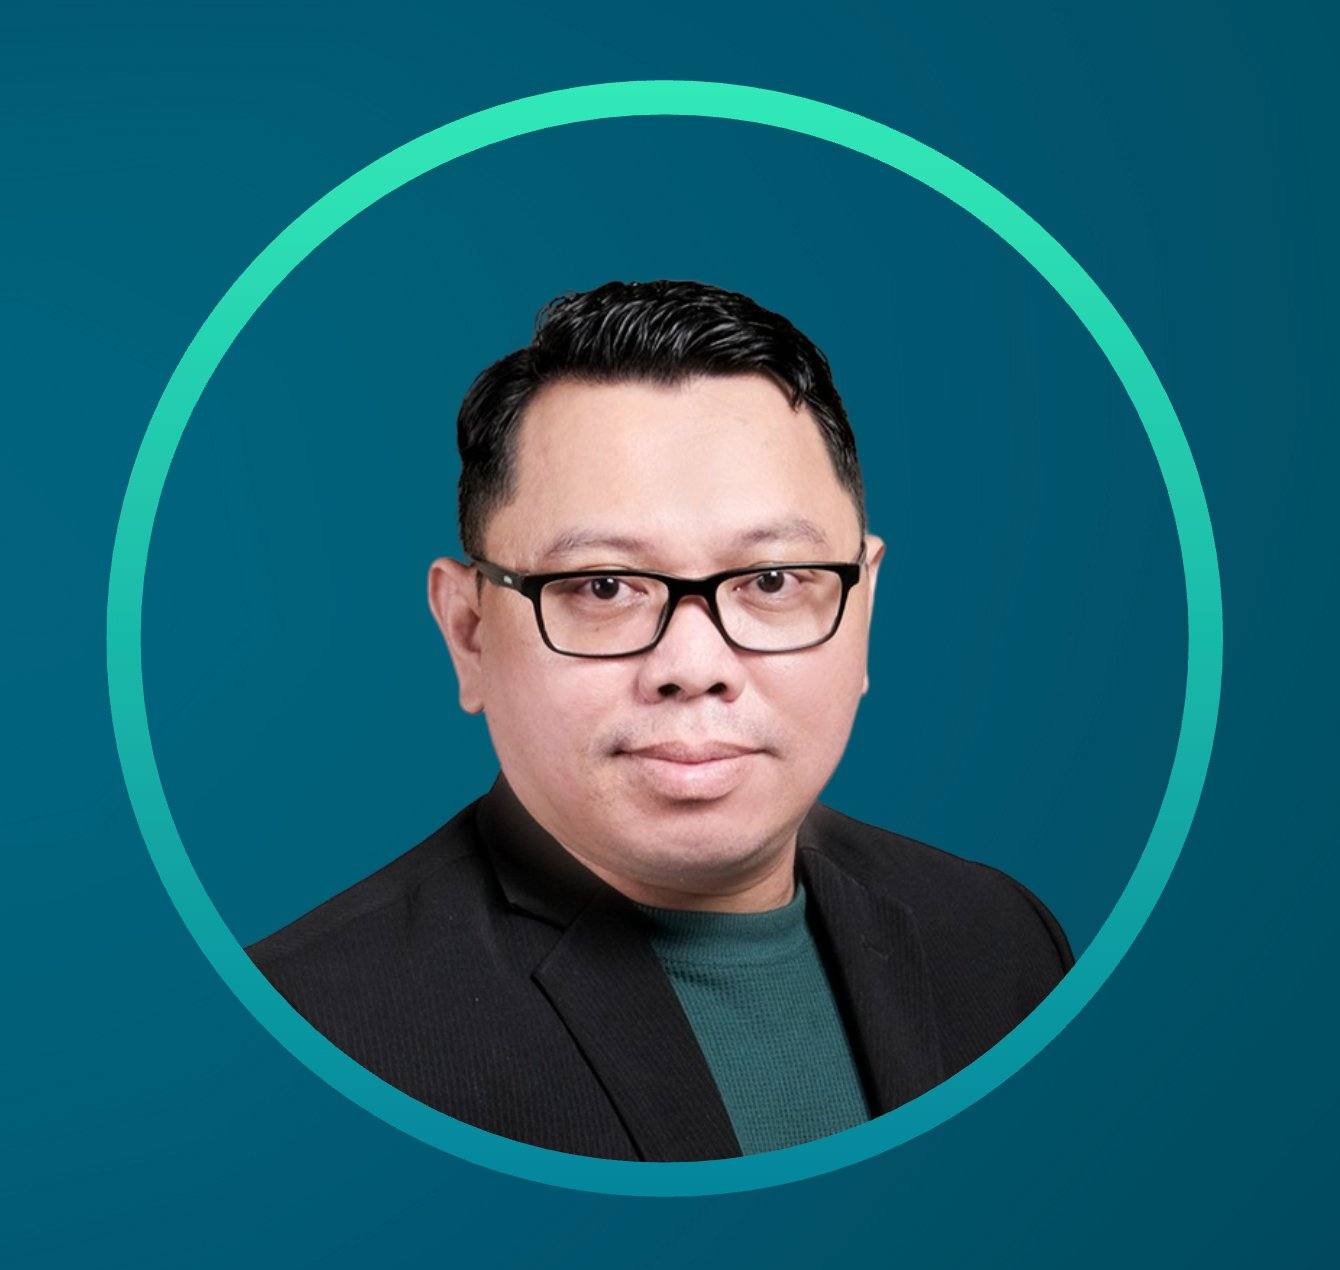
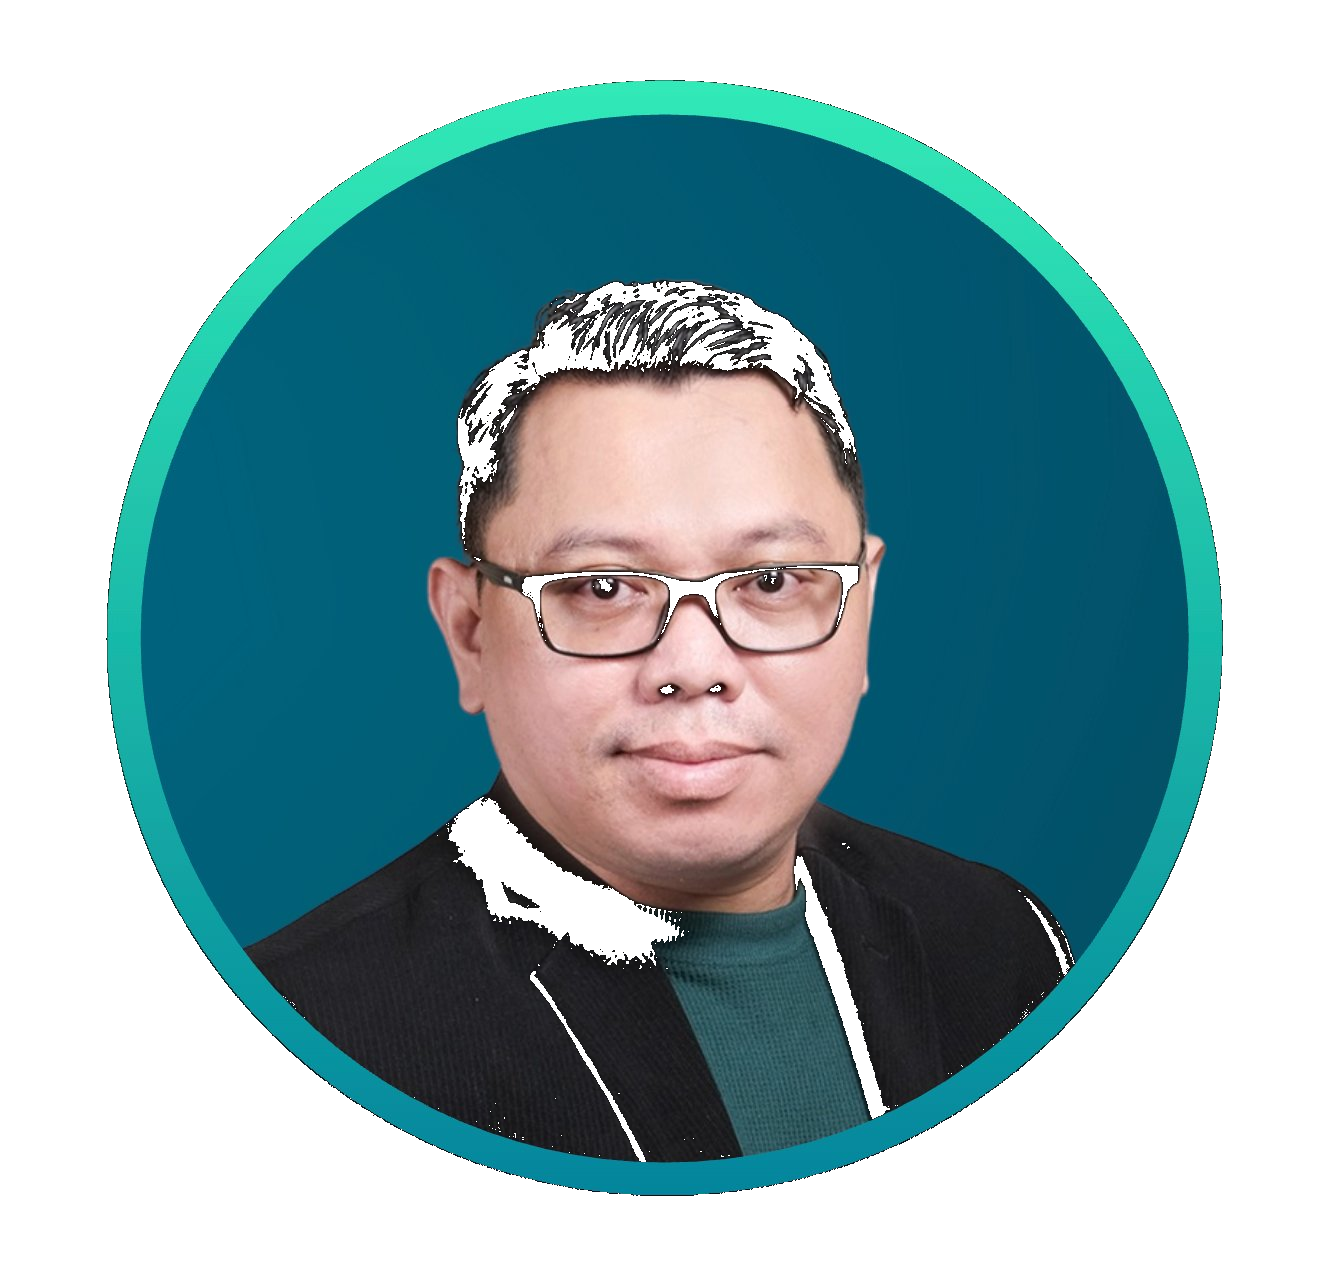
t

diff --git a/src/pages/Products.tsx b/src/pages/Products.tsx
@@ -194,7 +194,7 @@ export default function Products() {
                     style={{ background: selectedMentor === m.id ? `rgba(${rgb(m.color)},0.12)` : "rgba(255,255,255,0.07)", border: `1.5px solid ${selectedMentor === m.id ? m.color : "rgba(255,255,255,0.12)"}`, borderRadius: 16, padding: "18px 16px", cursor: "pointer", textAlign: "left", transition: "all 0.22s", position: "relative", overflow: "hidden" }}>
                     {selectedMentor === m.id && <div className="card-accent-top" style={{ background: `linear-gradient(90deg, ${m.color} 0%, transparent 100%)` }} />}
                     <div style={{ display: "flex", alignItems: "center", gap: 12, marginBottom: 8 }}>
-                      <img src={`/${m.name}.png`} alt={m.name} style={{ width: 64, height: 64, borderRadius: "50%", objectFit: "cover", objectPosition: "center 15%", flexShrink: 0, filter: `drop-shadow(0 0 6px rgba(${rgb(m.color)},0.45))` }} />
+                      <img src={`/${m.name}.png`} alt={m.name} style={{ width: 64, height: 64, objectFit: "contain", flexShrink: 0, filter: 'none' }} />
                       <div style={{ flex: 1, minWidth: 0 }}>
                         <div style={{ fontFamily: "var(--font-display)", fontSize: "15px", fontWeight: 700, color: "#fff" }}>{m.name}</div>
                         <div style={{ fontSize: "11px", color: m.color, fontWeight: 600, marginTop: 1 }}>{m.specialty}</div>
@@ -219,7 +219,7 @@ export default function Products() {
 
                     {/* Header */}
                     <div style={{ display: "flex", alignItems: "center", gap: 14, marginBottom: 16 }}>
-                      <img src={`/${selected.name}.png`} alt={selected.name} style={{ width: 96, height: 96, borderRadius: "50%", objectFit: "cover", objectPosition: "center 15%", flexShrink: 0, filter: `drop-shadow(0 0 10px rgba(${rgb(selected.color)},0.5))` }} />
+                      <img src={`/${selected.name}.png`} alt={selected.name} style={{ width: 96, height: 96, objectFit: "contain", flexShrink: 0, filter: 'none' }} />
                       <div>
                         <h3 style={{ fontFamily: "var(--font-display)", fontSize: "clamp(18px,4vw,22px)", fontWeight: 800, marginBottom: 2 }}>Mentoring dengan {selected.name}</h3>
                         <span style={{ fontSize: "13px", color: selected.color, fontWeight: 600 }}>{selected.role}</span>

diff --git a/src/pages/Mentors.tsx b/src/pages/Mentors.tsx
@@ -60,7 +60,7 @@ export default function Mentors() {
                     <img
                       src={`/${mentor.name}.png`}
                       alt={mentor.name}
-                      style={{ width: 110, height: 110, minWidth: 110, minHeight: 110, borderRadius: "50%", objectFit: "cover", objectPosition: "center 20%", display: "block", flexShrink: 0, filter: `drop-shadow(0 0 10px rgba(${rgb(mentor.color)},0.5))` }}
+                      style={{ width: 110, height: 110, minWidth: 110, minHeight: 110, objectFit: "contain", display: "block", flexShrink: 0, filter: 'none' }}
                     />
                     <div style={{ position: "absolute", bottom: 2, right: 2, width: 14, height: 14, borderRadius: "50%", background: "#22c55e", border: "2px solid rgba(10,20,45,0.8)" }} />
                   </div>

diff --git a/src/pages/Home.tsx b/src/pages/Home.tsx
@@ -277,7 +277,7 @@ export default function Home() {
                   <img
                     src={`/${m.name}.png`}
                     alt={m.name}
-                    style={{ width: 120, height: 120, minWidth: 120, minHeight: 120, borderRadius: "50%", objectFit: "cover", objectPosition: "center 20%", marginBottom: 16, display: "block", flexShrink: 0, filter: `drop-shadow(0 0 8px rgba(${rgb(m.color)},0.5))` }}
+                    style={{ width: 120, height: 120, minWidth: 120, minHeight: 120, objectFit: "contain", marginBottom: 16, display: "block", flexShrink: 0, filter: 'none' }}
                   />
 
                   <div style={{ fontFamily: "var(--font-display)", fontSize: "18px", fontWeight: 700, marginBottom: 6 }}>{m.name}</div>
